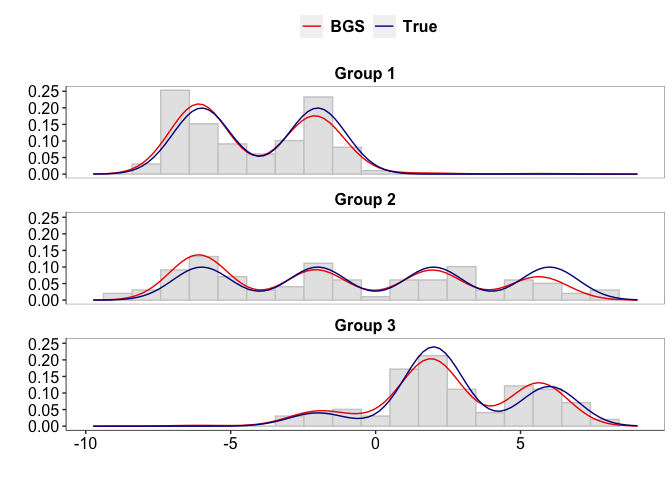
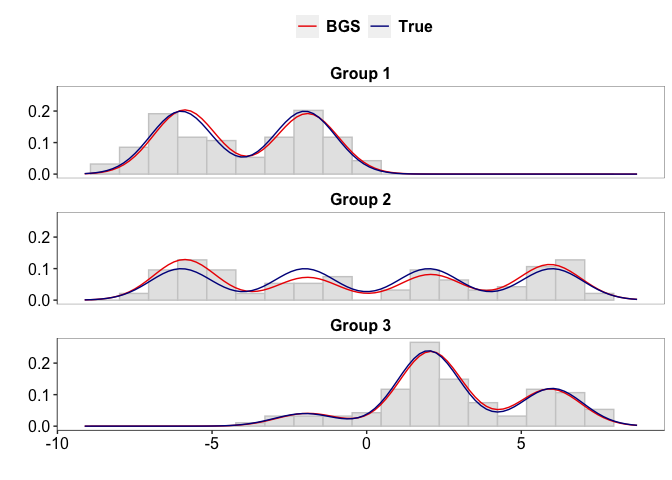
Reflect changes on README file.

diff --git a/README.md b/README.md
@@ -27,6 +27,12 @@ have good mixing.
 
 ### Additional Functions
 
+- **uBGS.R** - Functions to implement a truncated version of the
+  unmarginalized blocked Gibbs algorithm described in Section 3.1 of
+  [Amini et al. (2019)](https://arxiv.org/abs/1903.08829). The function
+  `u_blocked_gibbs` performs posterior sampling using the truncated
+  unmarginalized blocked Gibbs sampler.
+
 - **CRF.R** - Functions to implement the Chinese restaurant franchise
   (CRF) ([Teh et al.,
   2006](https://people.eecs.berkeley.edu/~jordan/papers/hdp.pdf)) based
@@ -42,7 +48,7 @@ have good mixing.
 
 - **postestimates.R** - Functions to get posterior estimates of cluster
   labels using the least squares clustering method ([Dahl,
-  2006](https://dahl.byu.edu/papers/dahl-2006.pdf)) and evaluate the
+  2006](https://dahl.byu.edu/papers/dahl-2006.pdf)), and evaluate the
   log-likelihood of the Gaussian mixture model using posterior samples.
 
 ## Example
@@ -103,7 +109,7 @@ true.Z = vector(mode = "list", length = J)
 # x[[j]] denotes observations in the jth group
 x = vector(mode = "list", length = J)
 
-set.seed(25)
+set.seed(2024)
 for(j in 1:J){
   true.Z[[j]] = sample(1:L, size = n[j], prob = Pi.true[j, ], replace = TRUE)
   x[[j]] = sapply(1:n[j], function(i) 
@@ -115,7 +121,7 @@ Specify the hyperparameters :
 
 ``` r
 # Number of MCMC samples and Burn in period.
-M = 1000; M.burn = 500
+M = 1000; M.burn = 2000
 
 # hyperparameter specifications
 G = 1; B = 0.1; L.max = 10
@@ -184,7 +190,7 @@ ARI.global = mcclust::arandi(unlist(Z.hat), unlist(true.Z))
 ARI.global
 ```
 
-    ## [1] 0.9344861
+    ## [1] 0.9574388
 
 ``` r
 # Adjusted Rand indices corresponding to group specific cluster labels
@@ -192,7 +198,7 @@ ARI = sapply(seq_len(J), function(j) mcclust::arandi(Z.hat[[j]], true.Z[[j]]))
 ARI
 ```
 
-    ## [1] 0.9600000 0.9199816 0.8611180
+    ## [1] 1.0000000 0.9290706 0.9356028
 
 Densities corresponding to each group is estimated using posterior
 samples.
